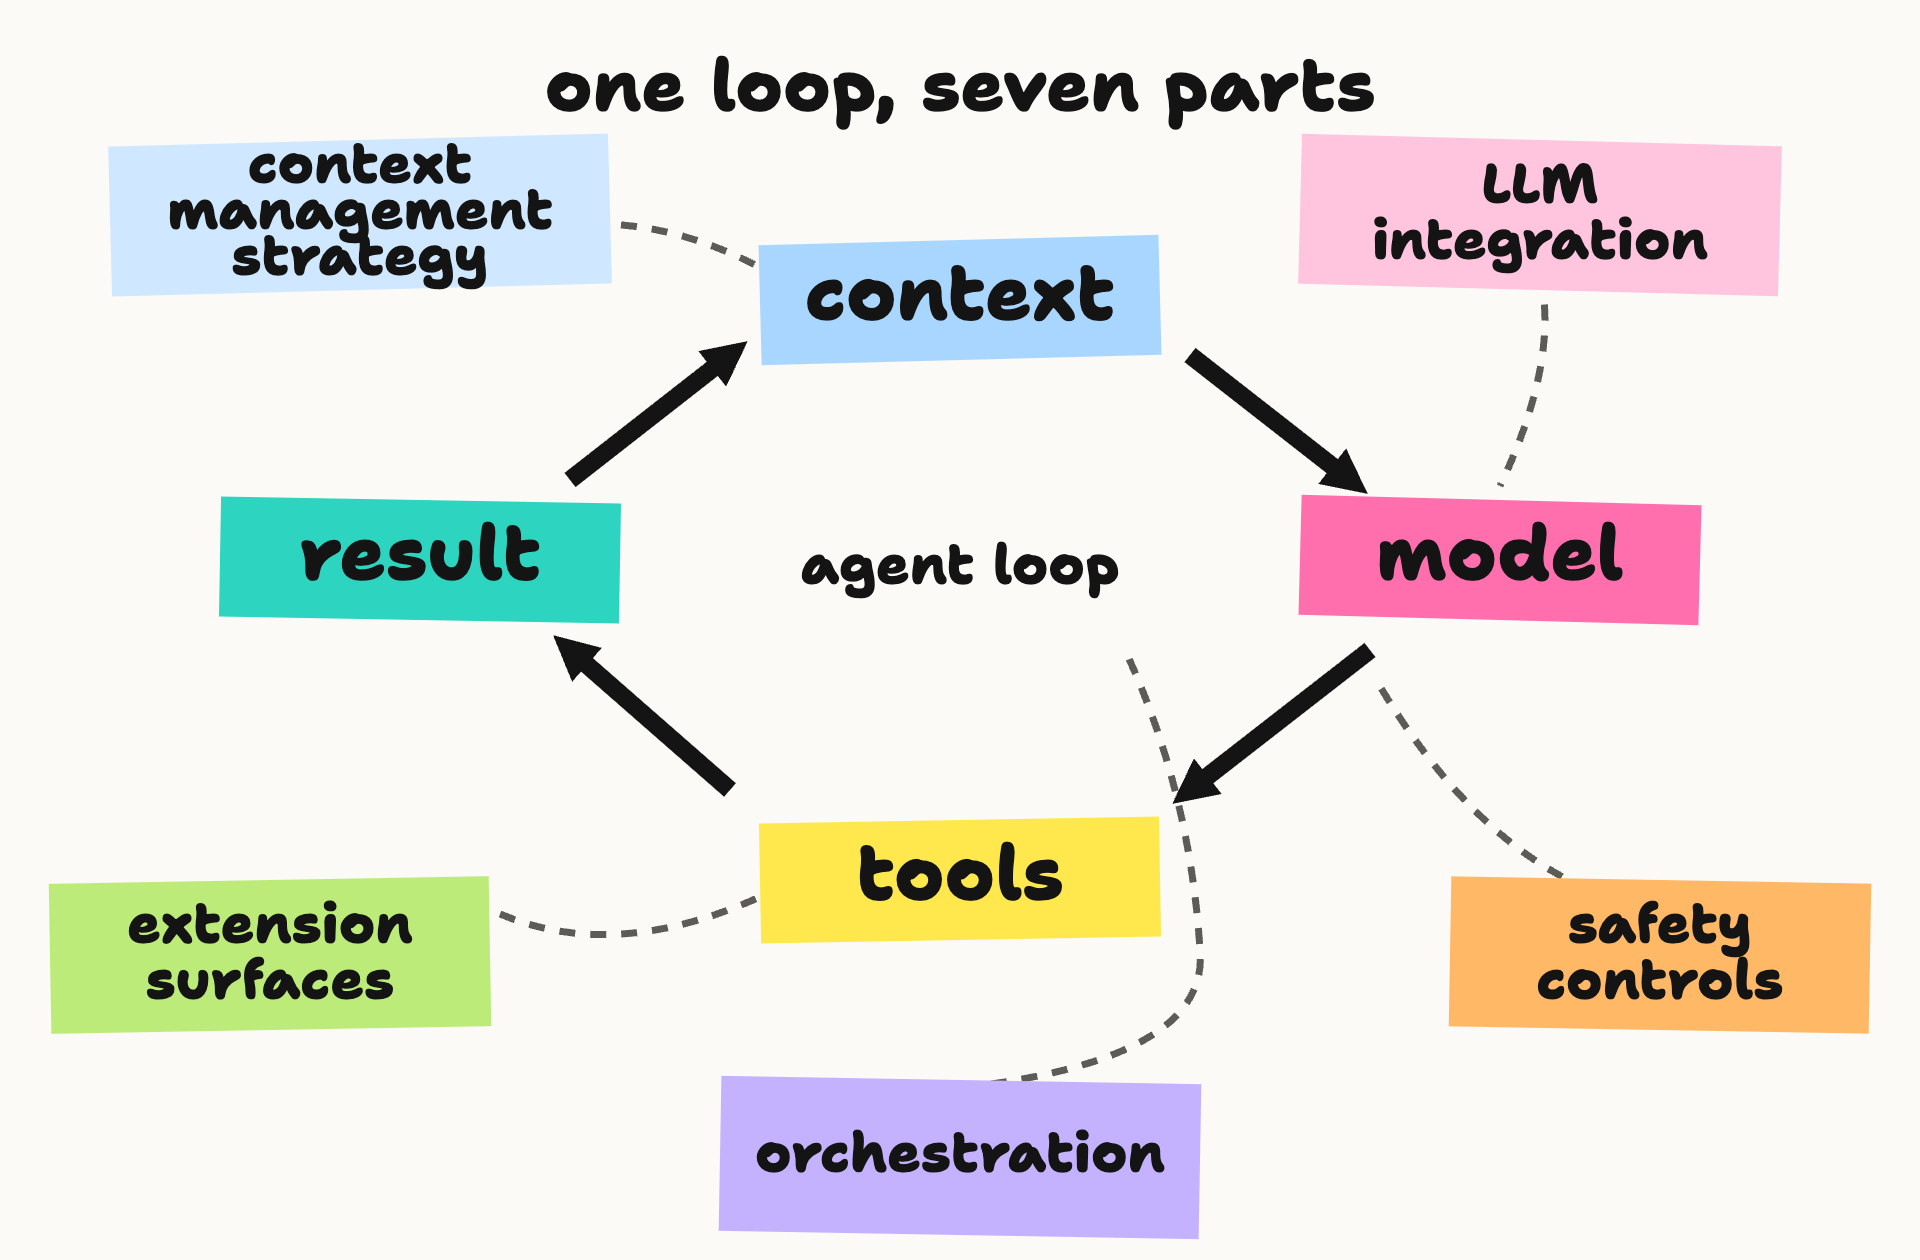
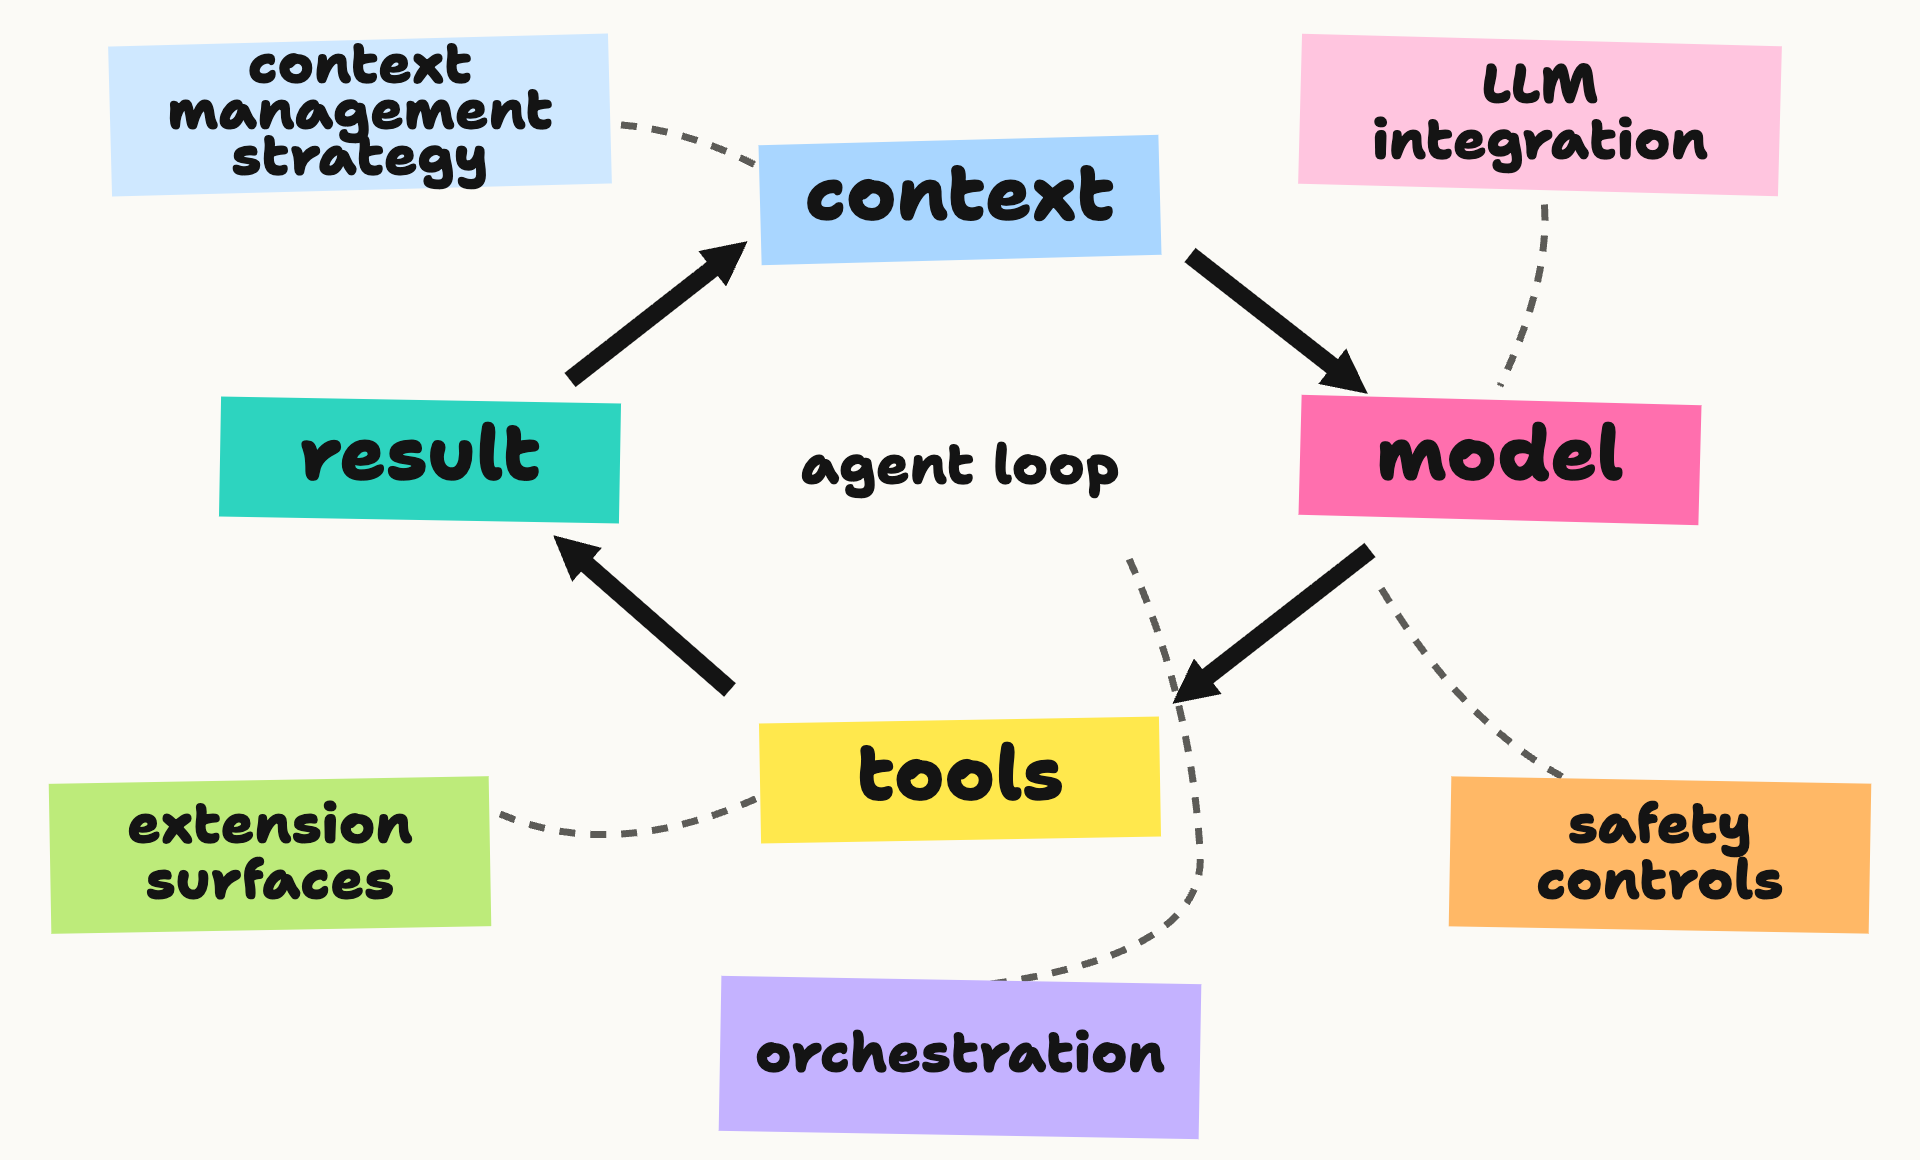
Remove heading from agent harness diagram

diff --git a/code/agent-harness/diagrams/seven-parts.html b/code/agent-harness/diagrams/seven-parts.html
@@ -10,20 +10,19 @@
 }
 html, body { margin: 0; background: #FBFAF6; }
 svg { display: block; }
-.title, .label, .part {
+.label, .part {
   font-family: Shantell, cursive;
   font-weight: 800;
   fill: #141414;
   text-anchor: middle;
   dominant-baseline: middle;
 }
-.title { font-size: 72px; }
 .label { font-size: 76px; }
 .part { font-size: 55px; }
 .arrow { fill: none; stroke: #141414; stroke-width: 18; stroke-linecap: butt; }
 .link { fill: none; stroke: #5C5B57; stroke-width: 7; stroke-dasharray: 16 15; }
 </style>
-<svg id="d" width="1920" height="1260" viewBox="0 0 1920 1260" role="img" aria-labelledby="title description" xmlns="http://www.w3.org/2000/svg">
+<svg id="d" width="1920" height="1160" viewBox="0 100 1920 1160" role="img" aria-labelledby="title description" xmlns="http://www.w3.org/2000/svg">
   <title id="title">Seven parts of an agent harness</title>
   <desc id="description">A central agent loop passes through context, model, tools and result. A context management strategy feeds context; LLM integration connects to the model; safety controls guard tools; extension surfaces add capabilities; orchestration coordinates the loop.</desc>
   <rect width="1920" height="1260" fill="#FBFAF6"/>
@@ -32,8 +31,6 @@ svg { display: block; }
       <path d="M0 0 L10 5 L0 10Z" fill="#141414"/>
     </marker>
   </defs>
-
-  <text class="title" x="960" y="92">one loop, seven parts</text>
 
   <!-- Dotted links show which part of the loop each surrounding system affects. -->
   <path class="link" d="M590 224 Q680 222 772 274"/>
